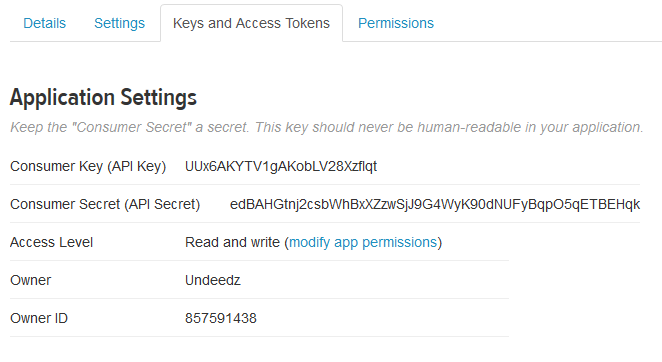
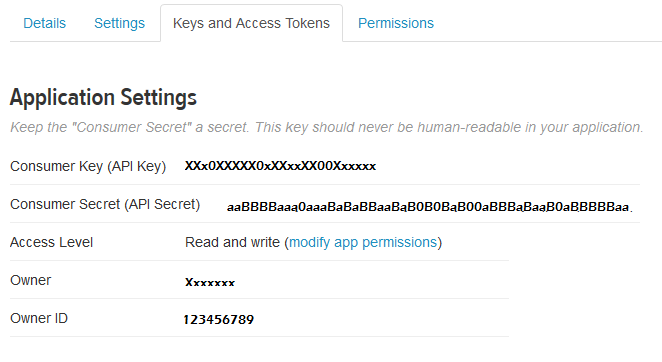
update

diff --git a/README.md b/README.md
@@ -1,2 +1,44 @@
 # Task_6
 Exercise on API using Twitter4J
+
+### Twitter OAuth Token
+* log in ke akun Twitter
+* buka halaman [apps.twitter.com] (apps.twitter.com)
+* buatlag aplikasi baru dengan mengekklik create new App<br>
+	![a01] (/asset/a01.PNG) <br>
+* tuliskan nama dan deskripsi aplikasi, tuliskan website aplikasi (jika ada) atau tuliskan alamat URL akun Twitter masing-masing<br>
+	![a02] (/asset/a02.PNG) <br>
+* check Developer Agreement, dan klik Create your Twitter application<br>
+	![a03] (/asset/a03.PNG) <br>
+* setelah aplikasi dibuat, navigasikan ke tab Keys and Access Tokens
+* akan terlihat 25-character Consumer Key dan 50-character Consumer Secret aplikasi yang baru dibuat<br>
+	![a04] (/asset/a04.PNG) <br>
+* scroll down dan klik create your new access token<br>
+	![a05] (/asset/a05.PNG) <br>
+* akan terlihat 49-digit-dash-character Access Token dan 45-character Access Token Secret<br>
+	![a06] (/asset/a06.PNG) <br>
+* buatlah sebuah file text dengan filename twitter4j.properties<br>
+	![a07] (/asset/a07.PNG) <br>
+* tuliskan Consumer Key, Consumer Secret, Access Token, and Access Token Secret ke dalam twitter4j.properties sebagai berikut<br>
+	![a08] (/asset/a08.PNG) <br>
+* twitter4j.properties telah terdaftar di dalam .gitignore, sehingga file twitter4j.properties tidak akan disinkronisasikan (push) ke repositori
+* see more [here] (https://dev.twitter.com/oauth/overview/application-owner-access-tokens)
+
+
+### Aplikasi Java Twitter
+Buatlah aplikasi java twitter yaitu aplikasi yang untuk mengakses social media twitter melaui apikasi java. Aplikasi java twitter ini memiliki spesifikasi sebagai berikut
+
+#### 1. TwitterModel.java
+* download library for Twitter API dari [Twitter4J] (http://twitter4j.org)
+* temukan lib jar twitter4j-core-4.0.1.jar
+* Buatlah sebuah project NetBeans
+* Copy kan library twitter4j-core-4.0.1.jar dan twitter4j.properties pada folder project anda
+* Tambahkan (add) seluruh library tersebut pada project NetBeans Anda
+* Buatlah sebuah kelas dengan nama TwitterModel.java dengan spesifikasi sbb:<br>
+	![01] (/asset/01.PNG) <br>
+* Tambahkan import twitter4j<br>
+	![02] (/asset/02.PNG) <br>
+
+
+<br>
+	![03] (/asset/03.PNG) <br>
